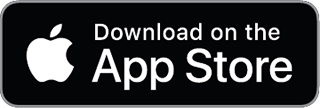
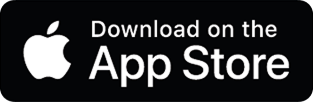
btn update
btn update

diff --git a/css/style.css b/css/style.css
@@ -970,8 +970,8 @@ margin-bottom: 12px;
     background: linear-gradient(90deg, rgb(251, 149, 185) 0%, rgb(250, 118, 160) 35%, rgba(255,78,141,1) 100%); */
   }
   .badge-button{
-    border-radius: 18px;
-    height: 72px;
+    border-radius: 12px;
+    height: 60px;
   }
 
   .logo{
